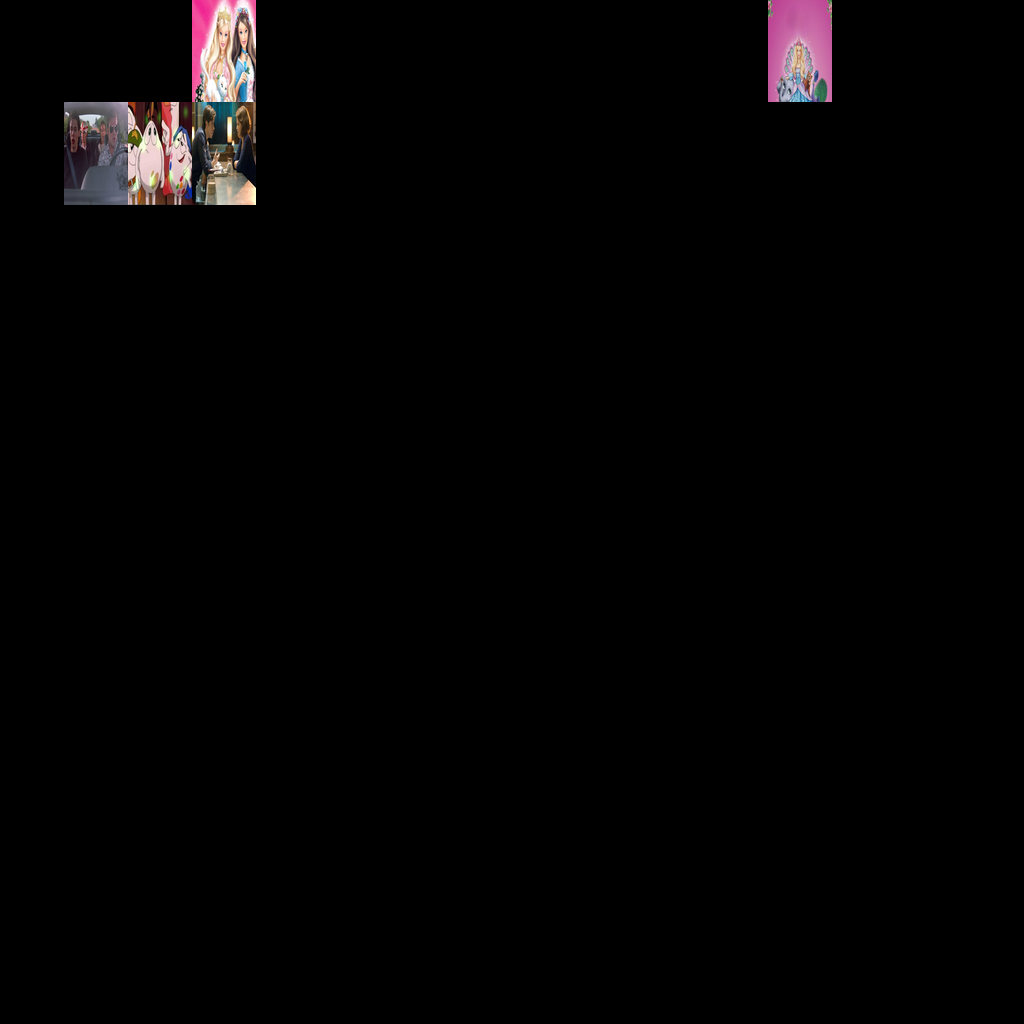
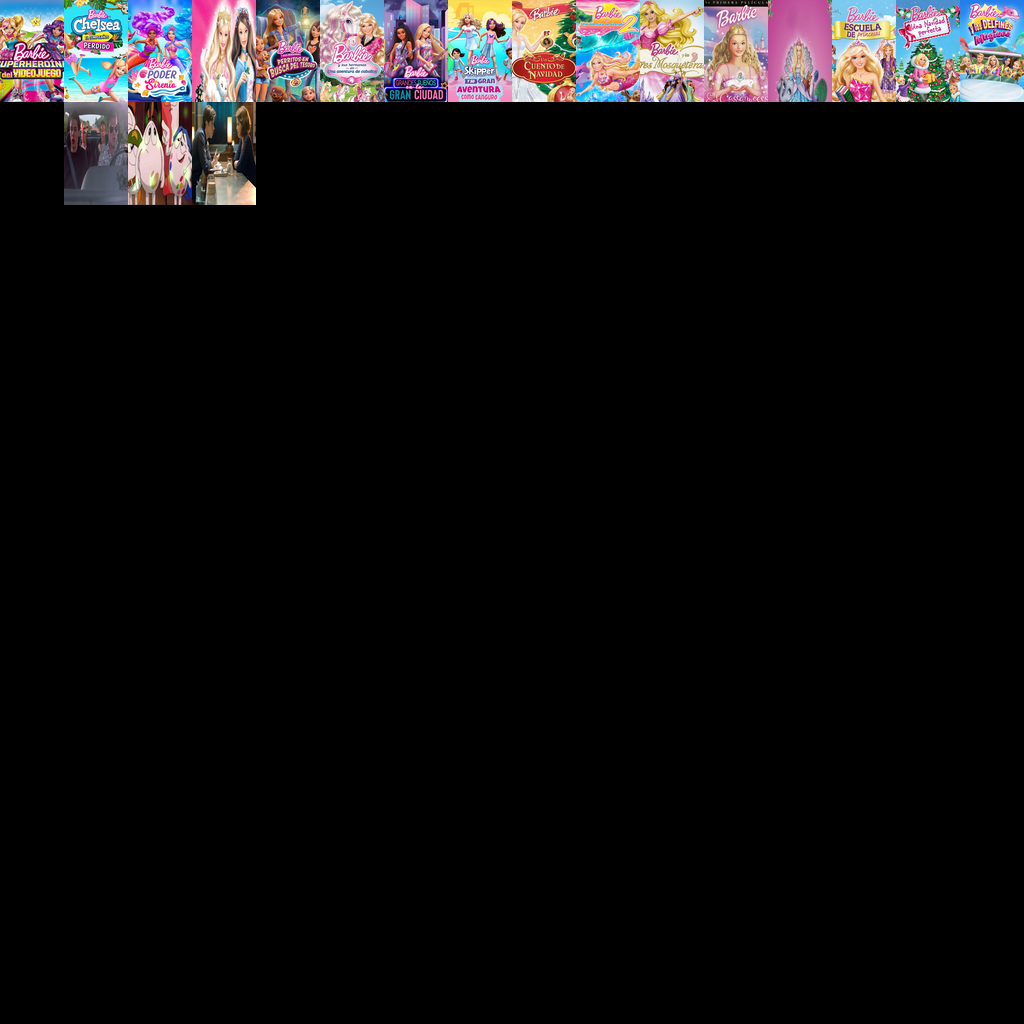
atlas: las 15 celdas que quedaban vacias, compuestas desde su poster de ficha
D[5] movie_402 y las 14 de E (movie_599..615) estaban en negro en la grilla del
mundo aunque el titulo si aparecia en el catalogo. Se pegan una a una desde
Backup/{id}.png (256x512), escalando al ancho de la celda y recortando el alto
desde arriba, que es el encuadre del resto del set.

Solo se tocan las celdas que estaban vacias: A, B y C quedan intactos, y en D/E
el diff no sale de la caja de cada celda parcheada. Verificado despues:
660/660 celdas declaradas en el JSON tienen arte.

Se añade atlas_builder.py, que es lo que hizo el trabajo: `verify` lista las
celdas declaradas y vacias, `patch <id> <poster>` pega una sola celda sin tocar
el resto de la hoja, y `build` compone las hojas enteras (destructivo, para
cuando se regenere todo el arte). Geometria: 16x10, celda 128x204.8 en PC y
64x102.4 en Quest.

OJO: el prefab del mundo apunta hoy a los .jpg 15x11, no a estas hojas .png, asi
que este arreglo no se vera en el cine hasta que ese cambio se cierre. Ver
RFD_Yuta_Atlas_Posters_2026-08-20.md.

Changed region(s): [[0.25, 0.0, 0.75, 0.125], [0.8125, 0.0, 1.0, 0.125], [0.0, 0.0, 0.1875, 0.125]]

diff --git a/atlas_builder.py b/atlas_builder.py
@@ -1,0 +1,182 @@
+#!/usr/bin/env python3
+# -*- coding: utf-8 -*-
+"""
+atlas_builder.py — compone y parchea los atlas de posters de CineVR.
+
+Geometria (set PNG, el que lee el mundo segun atlasInfo):
+    hoja PC    2048x2048  ->  16 col x 10 filas, celda 128 x 204.8
+    hoja Quest 1024x1024  ->  16 col x 10 filas, celda  64 x 102.4
+
+La posicion de cada titulo la manda el JSON del catalogo: campos `atlas` (A..E) y
+`gridIndex` (0..159). NUNCA se reordenan: son append-only. Ver
+RFD_Yuta_Atlas_Posters_2026-08-20.md.
+
+Modos:
+    verify                 lista las celdas que el JSON declara y estan vacias
+    patch  <id> <archivo>  pega UNA celda sobre la hoja existente y no toca el resto
+    build  <dir_posters>   compone las hojas enteras desde cero (DESTRUCTIVO: cambia
+                           encuadre y color de todo, usar solo si se regenera todo el arte)
+
+Uso:
+    python atlas_builder.py verify
+    python atlas_builder.py patch movie_603 /ruta/poster.png
+    python atlas_builder.py build ./fuentes --dry-run
+"""
+
+import argparse
+import json
+import os
+import sys
+
+from PIL import Image, ImageStat
+
+ROOT = os.path.dirname(os.path.abspath(__file__))
+CATALOG = os.path.join(ROOT, "JSON_UnityVR.json")
+COLS, ROWS = 16, 10
+PC_SIZE, QUEST_SIZE = 2048, 2048        # hoja PC cuadrada
+QUEST_SHEET = 1024
+# Recorte: el arte del atlas es mas cerrado que el poster de ficha 1:2. Se recorta
+# desde arriba, que es como esta hecho el set actual (medido sobre A.png).
+CROP_ANCHOR = 0.0                        # 0.0 = pegado al borde superior
+
+
+def cell_box(index, sheet_size):
+    cw = sheet_size / COLS
+    chh = sheet_size / ROWS
+    col, row = index % COLS, index // COLS
+    return (int(round(col * cw)), int(round(row * chh)),
+            int(round((col + 1) * cw)), int(round((row + 1) * chh)))
+
+
+def load_catalog():
+    with open(CATALOG, encoding="utf-8") as fh:
+        return json.load(fh)
+
+
+def fit_cell(poster, size):
+    """Escala el poster al ancho de la celda y recorta el alto sobrante desde CROP_ANCHOR."""
+    target_w, target_h = size
+    w, h = poster.size
+    scale = target_w / w
+    new_h = int(round(h * scale))
+    img = poster.resize((target_w, new_h), Image.LANCZOS)
+    if new_h <= target_h:
+        canvas = Image.new("RGB", size, (0, 0, 0))
+        canvas.paste(img, (0, (target_h - new_h) // 2))
+        return canvas
+    top = int(round((new_h - target_h) * CROP_ANCHOR))
+    return img.crop((0, top, target_w, top + target_h))
+
+
+def is_empty(sheet, index, sheet_size):
+    x0, y0, x1, y1 = cell_box(index, sheet_size)
+    st = ImageStat.Stat(sheet.crop((x0 + 6, y0 + 6, x1 - 6, y1 - 6)).convert("RGB"))
+    return max(st.stddev) < 8
+
+
+def cmd_verify(_args):
+    cat = load_catalog()
+    sheets = {}
+    faltan = []
+    for item in cat["movies"]:
+        key, idx = item["atlas"], item["gridIndex"]
+        path = os.path.join(ROOT, key + ".png")
+        if key not in sheets:
+            if not os.path.exists(path):
+                print("FALTA LA HOJA:", path)
+                sheets[key] = None
+                continue
+            sheets[key] = Image.open(path).convert("RGB")
+        if sheets[key] is None:
+            continue
+        if is_empty(sheets[key], idx, sheets[key].size[0]):
+            faltan.append((key, idx, item["id"], item["title"]))
+    print("celdas declaradas en el JSON y vacias en el atlas: %d de %d"
+          % (len(faltan), len(cat["movies"])))
+    for key, idx, mid, title in faltan:
+        hero = os.path.join(ROOT, "Backup", mid + ".png")
+        print("   %s[%3d]  %-12s  hero:%-6s  %s"
+              % (key, idx, mid, "ok" if os.path.exists(hero) else "FALTA", title[:48]))
+    return 1 if faltan else 0
+
+
+def cmd_patch(args):
+    cat = load_catalog()
+    item = next((m for m in cat["movies"] if m["id"] == args.movie_id), None)
+    if item is None:
+        sys.exit("ese id no esta en el catalogo: " + args.movie_id)
+    key, idx = item["atlas"], item["gridIndex"]
+    poster = Image.open(args.poster).convert("RGB")
+
+    for sheet_name, size in ((key + ".png", PC_SIZE), (key + "Quest.png", QUEST_SHEET)):
+        path = os.path.join(ROOT, sheet_name)
+        if not os.path.exists(path):
+            print("no existe, se salta:", sheet_name)
+            continue
+        # Se trabaja en el modo nativo de la hoja: convertirla entera a RGB volveria
+        # opacas las celdas vacias de las hojas RGBA y reescribiria pixeles que no
+        # tocan a este parche.
+        sheet = Image.open(path)
+        if sheet.size[0] != size:
+            print("OJO: %s mide %s, se usa su tamano real" % (sheet_name, sheet.size))
+        x0, y0, x1, y1 = cell_box(idx, sheet.size[0])
+        celda = fit_cell(poster, (x1 - x0, y1 - y0))
+        if sheet.mode == "RGBA":
+            celda = celda.convert("RGBA")
+        sheet.paste(celda, (x0, y0))
+        if not args.dry_run:
+            sheet.save(path, "PNG", optimize=True)
+        print("%s  %s[%d]  celda %dx%d  %s"
+              % (sheet_name, key, idx, x1 - x0, y1 - y0,
+                 "(dry-run)" if args.dry_run else "escrito"))
+    return 0
+
+
+def cmd_build(args):
+    cat = load_catalog()
+    by_sheet = {}
+    for item in cat["movies"]:
+        by_sheet.setdefault(item["atlas"], []).append(item)
+    for key, items in sorted(by_sheet.items()):
+        for sheet_name, size in ((key + ".png", PC_SIZE), (key + "Quest.png", QUEST_SHEET)):
+            sheet = Image.new("RGB", (size, size), (0, 0, 0))
+            puestos = 0
+            for item in items:
+                src = os.path.join(args.sources, item["id"] + ".png")
+                if not os.path.exists(src):
+                    continue
+                x0, y0, x1, y1 = cell_box(item["gridIndex"], size)
+                sheet.paste(fit_cell(Image.open(src).convert("RGB"), (x1 - x0, y1 - y0)), (x0, y0))
+                puestos += 1
+            out = os.path.join(ROOT, sheet_name)
+            if not args.dry_run:
+                sheet.save(out, "PNG", optimize=True)
+            print("%s  %d/%d celdas  %s" % (sheet_name, puestos, len(items),
+                                            "(dry-run)" if args.dry_run else "escrito"))
+    return 0
+
+
+def main():
+    ap = argparse.ArgumentParser(description=__doc__,
+                                 formatter_class=argparse.RawDescriptionHelpFormatter)
+    sub = ap.add_subparsers(dest="cmd", required=True)
+
+    sub.add_parser("verify", help="lista celdas declaradas y vacias").set_defaults(fn=cmd_verify)
+
+    p = sub.add_parser("patch", help="pega una sola celda sin tocar el resto de la hoja")
+    p.add_argument("movie_id")
+    p.add_argument("poster")
+    p.add_argument("--dry-run", action="store_true")
+    p.set_defaults(fn=cmd_patch)
+
+    p = sub.add_parser("build", help="compone las hojas enteras (DESTRUCTIVO)")
+    p.add_argument("sources", help="carpeta con {id}.png")
+    p.add_argument("--dry-run", action="store_true")
+    p.set_defaults(fn=cmd_build)
+
+    args = ap.parse_args()
+    sys.exit(args.fn(args))
+
+
+if __name__ == "__main__":
+    main()
